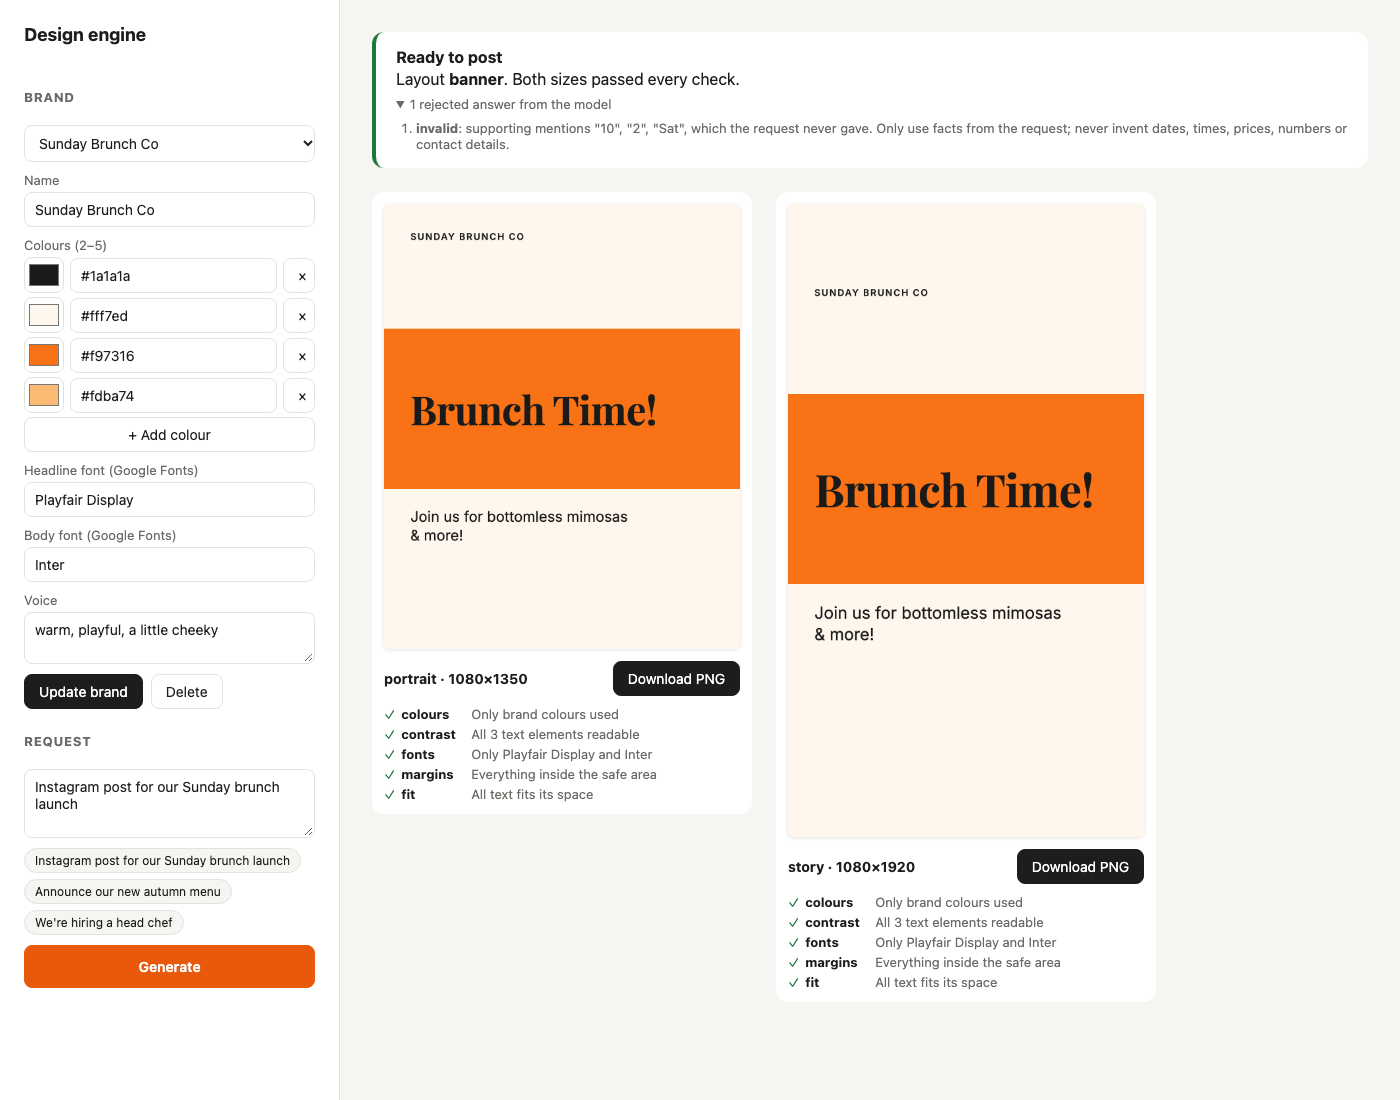
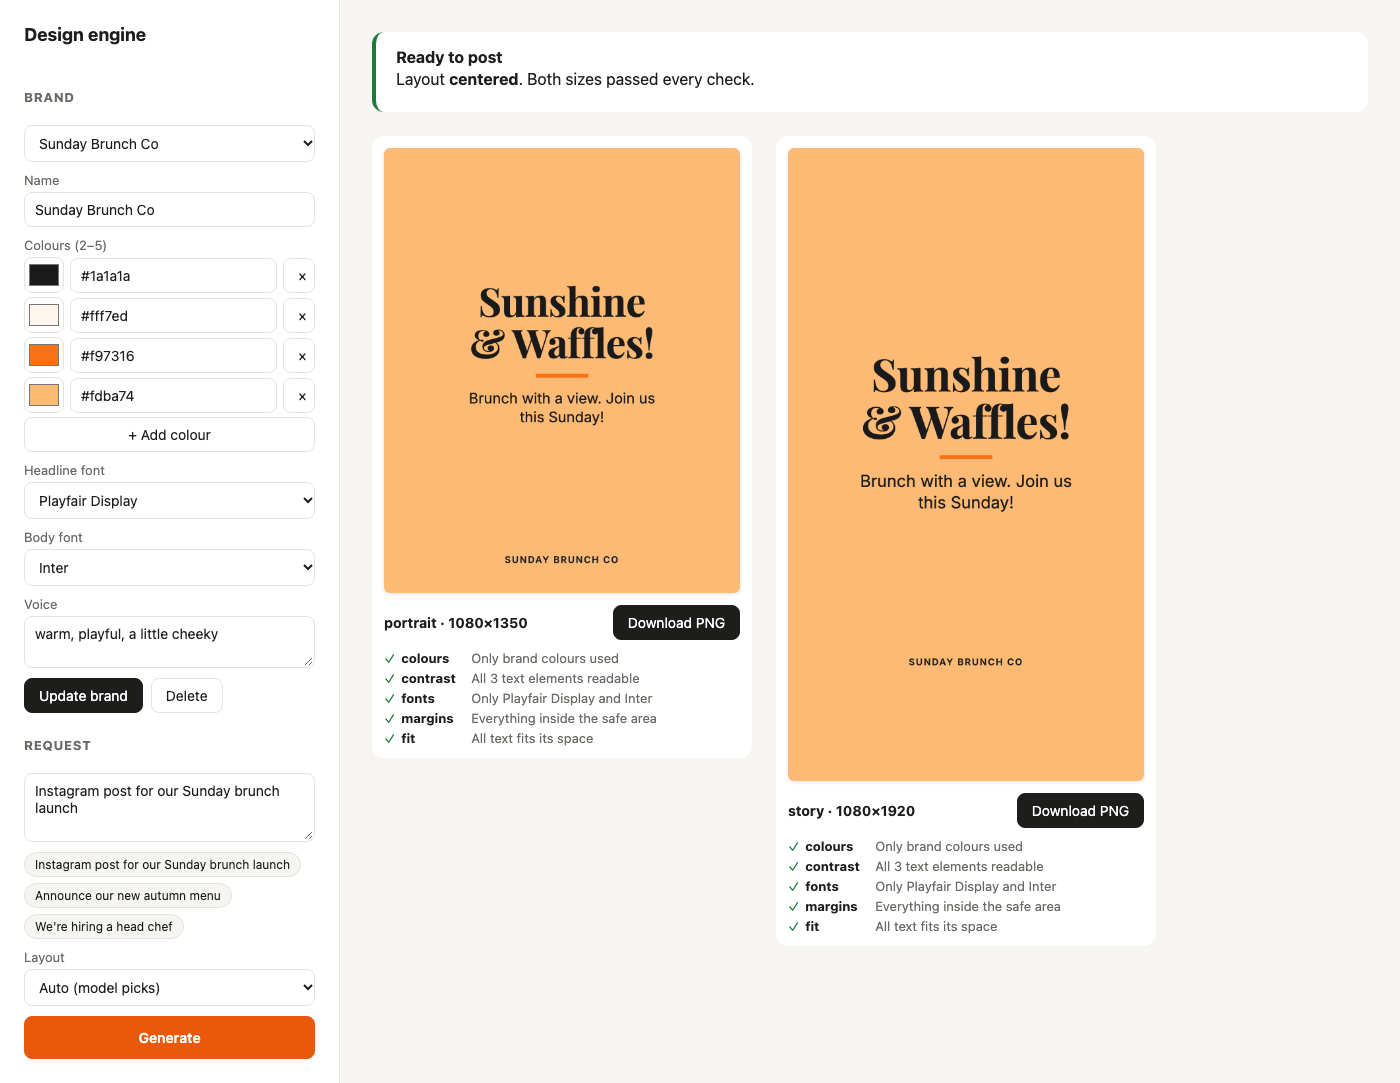
fix for chinese and updating screenshots

diff --git a/server/model.ts b/server/model.ts
@@ -1,5 +1,6 @@
 import { z } from "zod";
 import { Brand, HEADLINE_MAX, LAYOUT_HINTS, LAYOUTS, Plan, SUPPORTING_MAX, type LayoutId } from "./schema";
+import { paletteProblem, textColors } from "./contrast";
 import { validatePlan, type Validation } from "./validate";
 
 const OLLAMA_URL = process.env.OLLAMA_URL ?? "http://localhost:11434";
@@ -23,13 +24,14 @@ export type PlanResult =
  */
 export function planSchemaFor(brand: Brand, layouts: readonly LayoutId[] = LAYOUTS) {
   const color = z.enum(brand.colors as [string, ...string[]]);
+  const textColor = z.enum(textColors(brand.colors) as [string, ...string[]]);
   const font = z.enum(brand.fonts);
   const { $schema, ...schema } = z.toJSONSchema(
     Plan.extend({
       layout: z.enum(layouts as [LayoutId, ...LayoutId[]]).describe("Which layout to use."),
       colors: z.object({
         background: color.describe("Fills the design."),
-        text: color.describe("Headline and supporting text. Must contrast strongly with background."),
+        text: textColor.describe("Headline and supporting text. Must contrast strongly with background."),
         accent: color.describe("Decorative shapes and highlights. Different from background."),
       }),
       fontRoles: z.object({
@@ -62,9 +64,11 @@ ${layouts}
 - headline: at most ${HEADLINE_MAX} characters, punchy, in the brand's voice. No hashtags or emoji.
 - supporting: at most ${SUPPORTING_MAX} characters, the key detail (what, when, where).
 - Facts: use ONLY facts given in the request. Never invent dates, days, times, prices, numbers, names, emails or links. If the request gives no details, write a line without them.
-- Language: English, plain letters and punctuation. No emoji, no other scripts.
-- colors: use ONLY the brand's colours. text on background must have strong contrast (at least 4.5:1): pair a dark colour with a light one. accent should differ from background.
+- Language: write EVERY word in English only, even if the request or brand voice is in another language. Never use Chinese, Japanese, Korean or any non-Latin script, and no emoji. Plain letters, digits and punctuation only.
+- colors: use ONLY the brand's colours${paletteProblem(brand.colors) ? ` for background and accent. ${paletteProblem(brand.colors)} Use one of those for text` : ""}. text on background must have strong contrast (at least 4.5:1): pair a dark colour with a light one. accent should differ from background.
 - fontRoles: use ONLY the brand's fonts.
+
+Before answering, check that the headline and supporting line are English only.
 
 Output: answer with ONLY a JSON object matching this schema. No prose, no markdown, no code fences.
 ${JSON.stringify(planSchemaFor(brand, offered), null, 2)}`;

diff --git a/server/validate.test.ts b/server/validate.test.ts
@@ -1,5 +1,5 @@
 import { describe, expect, it } from "vitest";
-import { contrastRatio } from "./contrast";
+import { contrastRatio, paletteProblem, textColors } from "./contrast";
 import { Brand } from "./schema";
 import { validatePlan } from "./validate";
 
@@ -100,5 +100,35 @@ describe("validatePlan", () => {
   it("rejects malformed shapes with readable reasons", () => {
     expect(reasonsOf("not an object").length).toBeGreaterThan(0);
     expect(reasonsOf({}).length).toBeGreaterThan(0);
+  });
+});
+
+describe("paletteProblem", () => {
+  it("passes a palette with a readable pair", () => {
+    expect(paletteProblem(["#1F3A2E", "#F4EDE1", "#E07A5F"])).toBeNull();
+  });
+  it("names the best pair when none reaches 4.5:1", () => {
+    expect(paletteProblem(["#FFE066", "#FFFFFF", "#FFB3C6"])).toMatch(/#FFFFFF and #FFB3C6 is 1.68:1/);
+    expect(paletteProblem(["#111111", "#D7263D"])).toMatch(/3.81:1/);
+  });
+});
+
+describe("neutral text for unreadable palettes", () => {
+  const pastel: Brand = { name: "Sunny Pops", colors: ["#ffe066", "#ffffff", "#ffb3c6"], fonts: ["Fredoka", "Nunito"], voice: "bubbly" };
+  const plan = {
+    layout: "centered",
+    headline: "Mango pops are here",
+    supporting: "Our new mango ice pop.",
+    colors: { background: "#ffe066", text: "#111111", accent: "#ffb3c6" },
+    fontRoles: { headline: "Fredoka", body: "Nunito" },
+  };
+  it("adds neutrals only when no brand pair is readable", () => {
+    expect(textColors(pastel.colors)).toEqual([...pastel.colors, "#111111"]);
+    expect(textColors(["#1a1a1a", "#fff7ed"])).toEqual(["#1a1a1a", "#fff7ed"]);
+  });
+  it("allows neutral text, but not a neutral background", () => {
+    expect(validatePlan(plan, pastel, "Launch our new mango ice pop").ok).toBe(true);
+    const r = validatePlan({ ...plan, colors: { ...plan.colors, background: "#111111", text: "#ffffff" } }, pastel, "Launch our new mango ice pop");
+    expect(r.ok ? [] : r.reasons).toEqual([expect.stringMatching(/colors.background #111111 is not a brand colour/)]);
   });
 });

diff --git a/server/check.ts b/server/check.ts
@@ -1,5 +1,5 @@
 import type { Page } from "playwright";
-import { contrastRatio } from "./contrast";
+import { contrastRatio, textColors } from "./contrast";
 import type { FitResult } from "./render";
 import { normalizeHex, type Brand } from "./schema";
 
@@ -87,7 +87,9 @@ const isBigHeading = (label: string, t: { size: number; weight: number }) =>
   label === "headline" && (t.size >= 24 || (t.size >= 18.66 && t.weight >= 700));
 
 export function checkFacts(facts: Facts, brand: Brand, fit: FitResult[]): CheckResult[] {
-  const palette = new Set(brand.colors.map(normalizeHex));
+  const allowed = textColors(brand.colors.map(normalizeHex)); // brand colours, plus neutrals when needed for text
+  const palette = new Set(allowed);
+  const neutralNote = allowed.length > brand.colors.length ? ", plus neutral text" : "";
   const texts = facts.elements.filter((e) => e.text);
   const result = (rule: RuleId, failures: string[], ok: string): CheckResult => ({
     rule,
@@ -121,7 +123,7 @@ export function checkFacts(facts: Facts, brand: Brand, fit: FitResult[]): CheckR
   const overflow = fit.filter((f) => !f.fits).map((f) => `${f.role} doesn't fit even at ${f.fontSize}px`);
 
   return [
-    result("colours", [...offPalette], "Only brand colours used"),
+    result("colours", [...offPalette], `Only brand colours used${neutralNote}`),
     result("contrast", contrast, `All ${texts.length} text elements readable`),
     result("fonts", fonts, `Only ${brand.fonts.join(" and ")}`),
     result("margins", margins, "Everything inside the safe area"),

diff --git a/server/contrast.ts b/server/contrast.ts
@@ -20,3 +20,29 @@ export function contrastRatio(a: string, b: string): number {
   const lb = luminance(hexToRgb(b));
   return (Math.max(la, lb) + 0.05) / (Math.min(la, lb) + 0.05);
 }
+
+/**
+ * Text needs 4.5:1 against its background. Returns why no pair of brand colours gets
+ * there, or null if one does.
+ */
+export function paletteProblem(colors: string[]): string | null {
+  let best = { ratio: 0, a: "", b: "" };
+  colors.forEach((a, i) =>
+    colors.slice(i + 1).forEach((b) => {
+      const ratio = contrastRatio(a, b);
+      if (ratio > best.ratio) best = { ratio, a, b };
+    }),
+  );
+  if (best.ratio >= 4.5) return null;
+  return `No two brand colours are readable together (best pair ${best.a} and ${best.b} is ${best.ratio.toFixed(2)}:1; text needs 4.5:1), so text may use neutral ${NEUTRALS.join(" or ")}.`;
+}
+
+export const NEUTRALS = ["#111111", "#ffffff"];
+
+/**
+ * Colours text may use: the brand's, plus neutral near-black and white when no pair of
+ * brand colours is readable (e.g. an all-pastel palette). Backgrounds and accents stay brand-only.
+ */
+export function textColors(colors: string[]): string[] {
+  return paletteProblem(colors) ? [...new Set([...colors, ...NEUTRALS])] : colors;
+}

diff --git a/web/App.tsx b/web/App.tsx
@@ -2,6 +2,7 @@ import { useEffect, useState } from "react";
 import type { Design, DesignResult } from "../server/pipeline";
 import { LAYOUTS, type Brand, type LayoutId } from "../server/schema";
 import type { Attempt } from "../server/model";
+import { paletteProblem } from "../server/contrast";
 
 async function api<T>(path: string, init?: RequestInit): Promise<T> {
   const res = await fetch(path, { headers: { "content-type": "application/json" }, ...init });
@@ -81,6 +82,7 @@ export function App() {
     });
 
   const saved = brands.some((b) => b.name.toLowerCase() === brand.name.trim().toLowerCase());
+  const palette = brand.colors.every((c) => /^#([0-9a-f]{3}|[0-9a-f]{6})$/i.test(c)) ? paletteProblem(brand.colors) : null;
   const canGenerate = !busy && brand.name && brand.fonts.every(Boolean) && brand.voice && request.trim().length >= 3;
 
   return (
@@ -126,6 +128,7 @@ export function App() {
                 + Add colour
               </button>
             )}
+            {palette && <p className="warn">{palette}</p>}
           </div>
 
           <label>

diff --git a/server/validate.ts b/server/validate.ts
@@ -1,4 +1,4 @@
-import { contrastRatio } from "./contrast";
+import { contrastRatio, textColors } from "./contrast";
 import { Brand, normalizeHex, Plan } from "./schema";
 
 /** "malformed" = wrong shape (missing fields, wrong types); "invalid" = right shape, breaks a brand rule. */
@@ -56,11 +56,11 @@ export function validatePlan(raw: unknown, brand: Brand, request: string): Valid
   }
   const plan = parsed.data;
   const reasons: string[] = [];
-  const palette = brand.colors.map(norm);
 
   for (const [role, c] of Object.entries(plan.colors)) {
-    if (!palette.includes(norm(c))) {
-      reasons.push(`colors.${role} ${c} is not a brand colour. Use one of: ${brand.colors.join(", ")}.`);
+    const allowed = role === "text" ? textColors(brand.colors) : brand.colors;
+    if (!allowed.map(norm).includes(norm(c))) {
+      reasons.push(`colors.${role} ${c} is not a brand colour. Use one of: ${allowed.join(", ")}.`);
     }
   }
   for (const [role, f] of Object.entries(plan.fontRoles)) {

diff --git a/web/styles.css b/web/styles.css
@@ -39,6 +39,7 @@ button.primary { background: var(--accent); border-color: var(--accent); padding
 .spread { justify-content: space-between; }
 
 .muted { color: var(--muted); }
+.warn { color: #8a4b00; font-size: 13px; background: #fff4e0; padding: 8px 10px; border-radius: 8px; margin: 0; }
 .error { color: var(--fail); font-size: 14px; background: #fdecec; padding: 10px 12px; border-radius: 8px; margin: 0; }
 
 .notice { border-radius: 12px; padding: 16px 20px; margin-bottom: 24px; background: var(--panel); border-left: 4px solid; }

diff --git a/README.md b/README.md
@@ -6,7 +6,7 @@ Turns a brand and a one-line request into an on-brand social graphic at two size
 
 ![The app](docs/screenshots/ui.png)
 
-*Real run with `qwen2.5:7b`. The model's first answer invented "Sat", "10" and "2" for a request that gave no day or time. It was rejected with that reason, and the repaired plan passed.*
+*Real run with `qwen2.5:7b`: the sample brand and the brief's example request, with the model choosing the layout. Both sizes passed every brand check. When the model's first answer is rejected, the reasons appear under "rejected answers" in the notice.*
 
 ## Run it
 
@@ -124,7 +124,7 @@ I ran 10 varied requests through the full pipeline, across two quite different b
 
 | Request | Model wrote | Problem |
 | --- | --- | --- |
-| autumn menu | "pumpkin spice everything. 🍁南瓜香料新菜式来了！" | Chinese text and an emoji, drawn in a system fallback font ([image](docs/screenshots/caught-fallback-glyphs.png)). The fonts check passed because it only read the CSS. |
+| autumn menu | "pumpkin spice everything. 🍁南瓜香料新菜式来了！" | Chinese text and an emoji, drawn in a system fallback font. The fonts check passed because it only read the CSS. |
 | Sunday brunch launch | "Join us Sat 11am" | Wrong day, and an invented time |
 | hiring a head chef | "hire@sunbrunchco.com" | Invented email |
 | Series A | "$5M investment" | Invented amount |
@@ -158,6 +158,18 @@ The first request after Ollama starts takes about 14s, because the model has to 
 - fonts that only come in one weight (Bebas Neue, Pacifico)
 - a black-and-white 2-colour brand
 
+## Three test brands
+
+Real runs with `qwen2.5:7b` through the UI.
+
+| Brand | Request | Result |
+| --- | --- | --- |
+| Bloom Café (`#1F3A2E` `#F4EDE1` `#E07A5F`, Playfair Display + Inter) | Announce our new autumn menu | Ready to post. The first answer put a 🍁 in the headline; it was rejected and repaired. [Screenshot](docs/screenshots/brand-bloom-cafe.png) |
+| Ironclad Gym (`#111111` `#D7263D`, Bebas Neue + Roboto) | New year membership drive, no joining fee | Ready to post, banner layout: white text on the red block and on black. Black on red is only 3.81:1, so neutral white text was allowed. [Screenshot](docs/screenshots/brand-ironclad-gym.png) |
+| Sunny Pops (`#FFE066` `#FFFFFF` `#FFB3C6`, Fredoka + Nunito) | Launch our new mango ice pop | Ready to post, centered layout: near-black text on the brand yellow. All three colours are light (the best pair is 1.68:1), so neutral text was allowed. [Screenshot](docs/screenshots/brand-sunny-pops.png) |
+
+**Unreadable palettes (a deliberate bend of "brand colours only").** For Sunny Pops and Ironclad Gym, no two brand colours reach the 4.5:1 that text needs, so following the rule strictly means no design at all. A designer would set the text in black or white, so the app does the same: when no brand pair is readable, and only then, text may also use neutral `#111111` or `#ffffff` (`textColors` in `server/contrast.ts`). Backgrounds and accents stay brand colours only. The model is told about the neutrals, its JSON schema allows them for `text` only, validation enforces that, the brand check reports "Only brand colours used, plus neutral text", and the UI shows a note under the colours.
+
 ## Layouts and sizes
 
 Three layouts, each arranged differently for each shape rather than stretched:
@@ -186,7 +198,7 @@ These are places where the brief was open and I made a call:
 
 ## Tests
 
-`npm test` runs 53 tests on the tricky logic:
+`npm test` runs 57 tests on the tricky logic:
 
 - **Brand input:** colours are normalised to `#rrggbb`, and the name length is capped.
 
